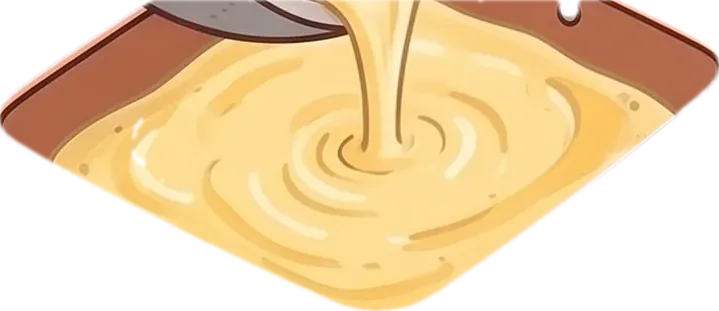
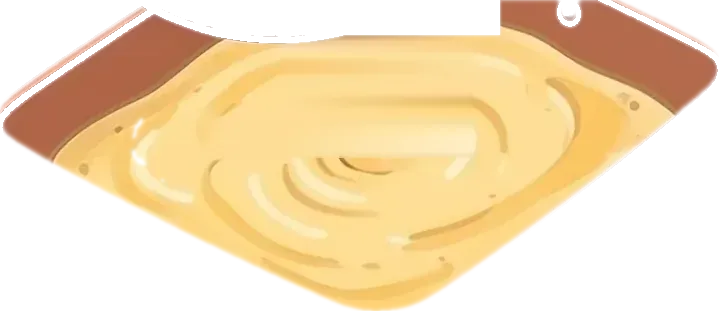
Stir scene always square (no cover-crop clipping), smaller bowl; pour overlays de-duplicated
The stir card can be flattened by max-height, and the default object-fit
cover was cropping the bowl top/bottom in that case. The stir scene is now
a height-based square like the pour scene, layers use object-fit fill, and
the bowl is a notch smaller. The pour fill overlays each carried their own
drawn stream and a grey bowl fragment, which doubled up during the stage
crossfade; streams above the puddle are now transparent holes, in-puddle
columns are lerped away, and only the CSS stream remains as the falling
column.

diff --git a/cook.html b/cook.html
@@ -98,13 +98,14 @@
   /* ---- 휘젓기: 거품기 왕복 셀 애니메이션 (1↔2 → 3↔4 → 완성) ---- */
   #stirWrap { will-change: transform; transition: transform .12s; }
   /* 휘젓기: 배경·볼 고정, 휘핑기 스프라이트만 공전. 내용물은 크로스페이드 */
-  .stirScene { position: absolute; inset: 0; }
-  .card .img .stirScene .slay { position: absolute; inset: auto; opacity: 1; pointer-events: none; -webkit-user-drag: none; } /* 프레임 스택용 img+img 숨김 규칙 무효화 */
+  /* 카드가 max-height로 눌려 정사각이 아니어도 장면은 항상 정사각 -> cover 크롭으로 볼이 잘리는 일 방지 */
+  .stirScene { position: absolute; top: 0; height: 100%; aspect-ratio: 1/1; left: 50%; transform: translateX(-50%); }
+  .card .img .stirScene .slay { position: absolute; inset: auto; opacity: 1; object-fit: fill; pointer-events: none; -webkit-user-drag: none; } /* 프레임 스택 규칙(숨김/cover) 무효화 */
   .card .img .stirScene .sBg { left: 0; top: 0; width: 100%; height: 100%; object-fit: cover; }
-  .card .img .stirScene .sBowl { left: 13%; top: 35%; width: 74%; height: 58%; }
+  .card .img .stirScene .sBowl { left: 16%; top: 37.7%; width: 68%; height: 53.3%; }
   /* 계란물 '내용물'만 — 볼 테두리는 raw 한 장이 계속 담당하므로 볼이 깜빡일 일이 없다 */
-  .card .img .stirScene .sMixC { left: 21.4%; top: 48.1%; width: 58%; height: 22.5%; opacity: 0; transition: opacity .35s; }
-  .card .img .stirScene .sWhisk { left: 39%; top: 9%; width: 22%; height: 64.8%;
+  .card .img .stirScene .sMixC { left: 23.7%; top: 49.8%; width: 53.3%; height: 20.7%; opacity: 0; transition: opacity .35s; }
+  .card .img .stirScene .sWhisk { left: 40%; top: 15.9%; width: 20%; height: 58.9%;
                                   transform-origin: 50% 75%; will-change: transform; }
   #scrStir .card { aspect-ratio: 1/1; }
 
@@ -563,20 +564,22 @@
     // 휘핑기 와이어 중심을 카드 % 좌표로 배치 (기본 위치: 50, 53.6)
     function placeWhisk(pxc, pyc) {
       var r = card.getBoundingClientRect();
-      var dx = (pxc - 50) / 100 * r.width, dy = (pyc - 57.6) / 100 * r.height;
+      var side = r.height; // 장면은 카드 높이 기준 정사각
+      var dx = (pxc - 50) / 100 * side, dy = (pyc - 60.1) / 100 * side;
       whisk.style.transform = 'translate(' + dx.toFixed(1) + 'px,' + dy.toFixed(1) + 'px) rotate(' + ((pxc - 50) * 0.5).toFixed(1) + 'deg)';
     }
     // 모션 모드(손가락 없음)일 때만 누적 각도로 공전
-    function renderWhisk() { placeWhisk(50 + 18 * Math.cos(th), 59 + 8 * Math.sin(th)); }
+    function renderWhisk() { placeWhisk(50 + 17 * Math.cos(th), 60 + 7.5 * Math.sin(th)); }
     // 터치 중엔 손가락 위치를 그대로 따라간다 (볼 안쪽 타원으로 제한)
     function fingerWhisk(e) {
       if (doneFlag) return;
       var r = card.getBoundingClientRect();
-      var fx = (e.clientX - r.left) / r.width * 100, fy = (e.clientY - r.top) / r.height * 100;
-      var ex = (fx - 50) / 24, ey = (fy - 59) / 11;
+      var side = r.height, sx0 = r.left + (r.width - side) / 2;
+      var fx = (e.clientX - sx0) / side * 100, fy = (e.clientY - r.top) / side * 100;
+      var ex = (fx - 50) / 22, ey = (fy - 60) / 10;
       var m = Math.sqrt(ex * ex + ey * ey);
       if (m > 1) { ex /= m; ey /= m; }
-      placeWhisk(50 + ex * 24, 59 + ey * 11);
+      placeWhisk(50 + ex * 22, 60 + ey * 10);
     }
     function add(dRad, t) {
       if (doneFlag) return;
